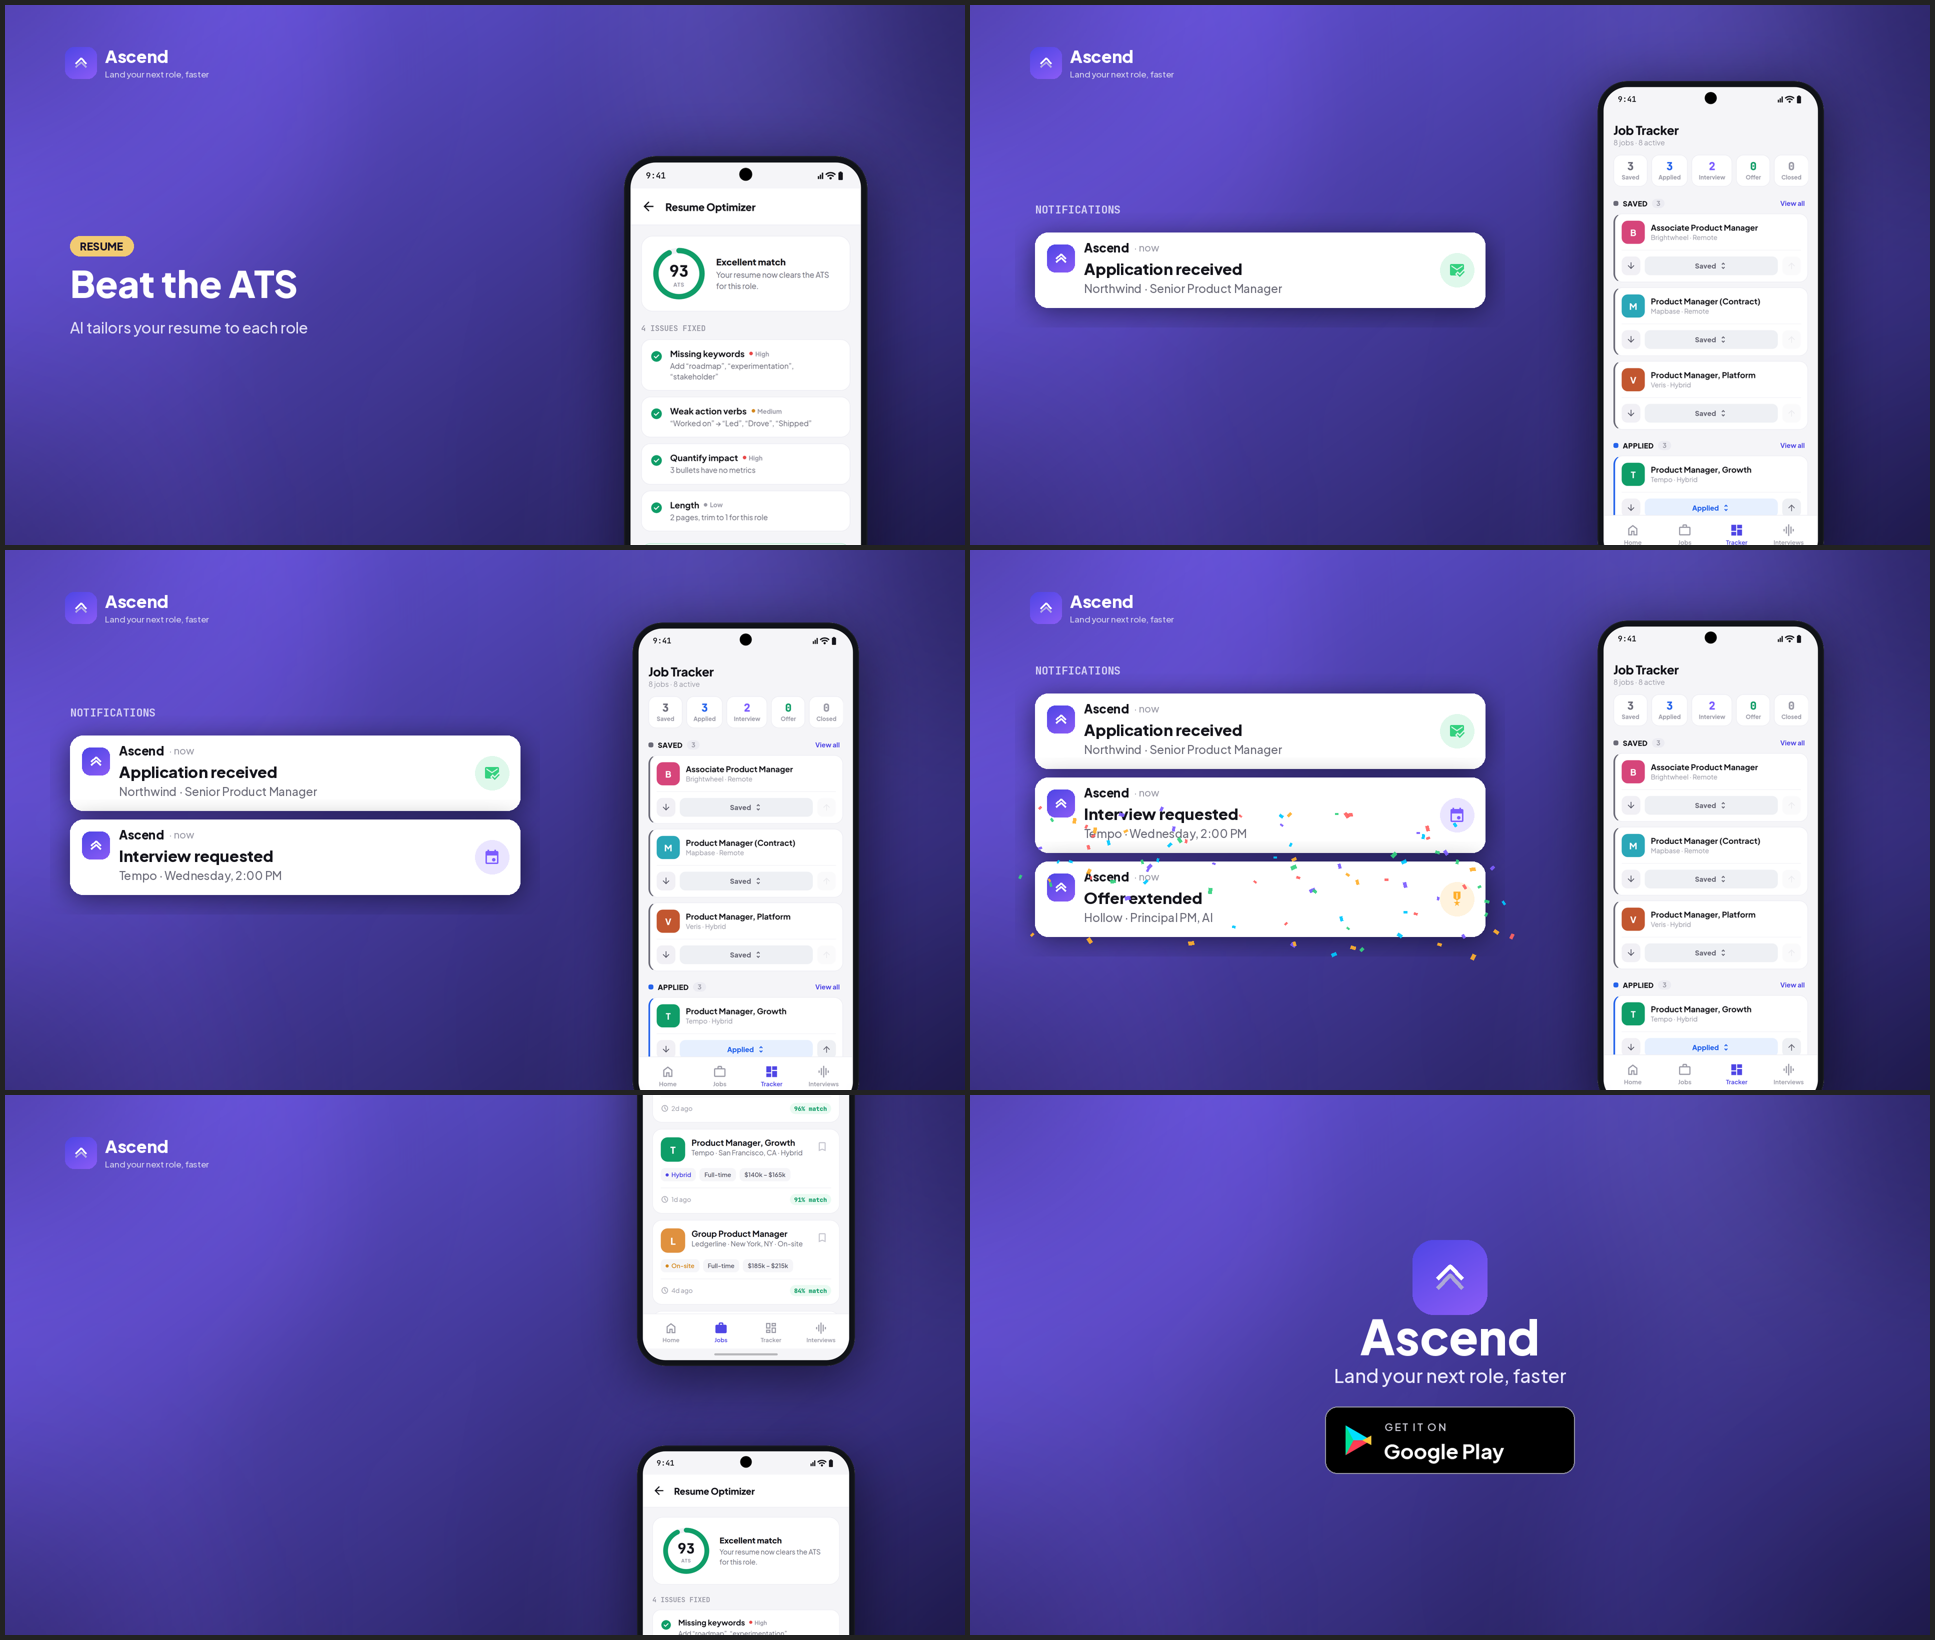
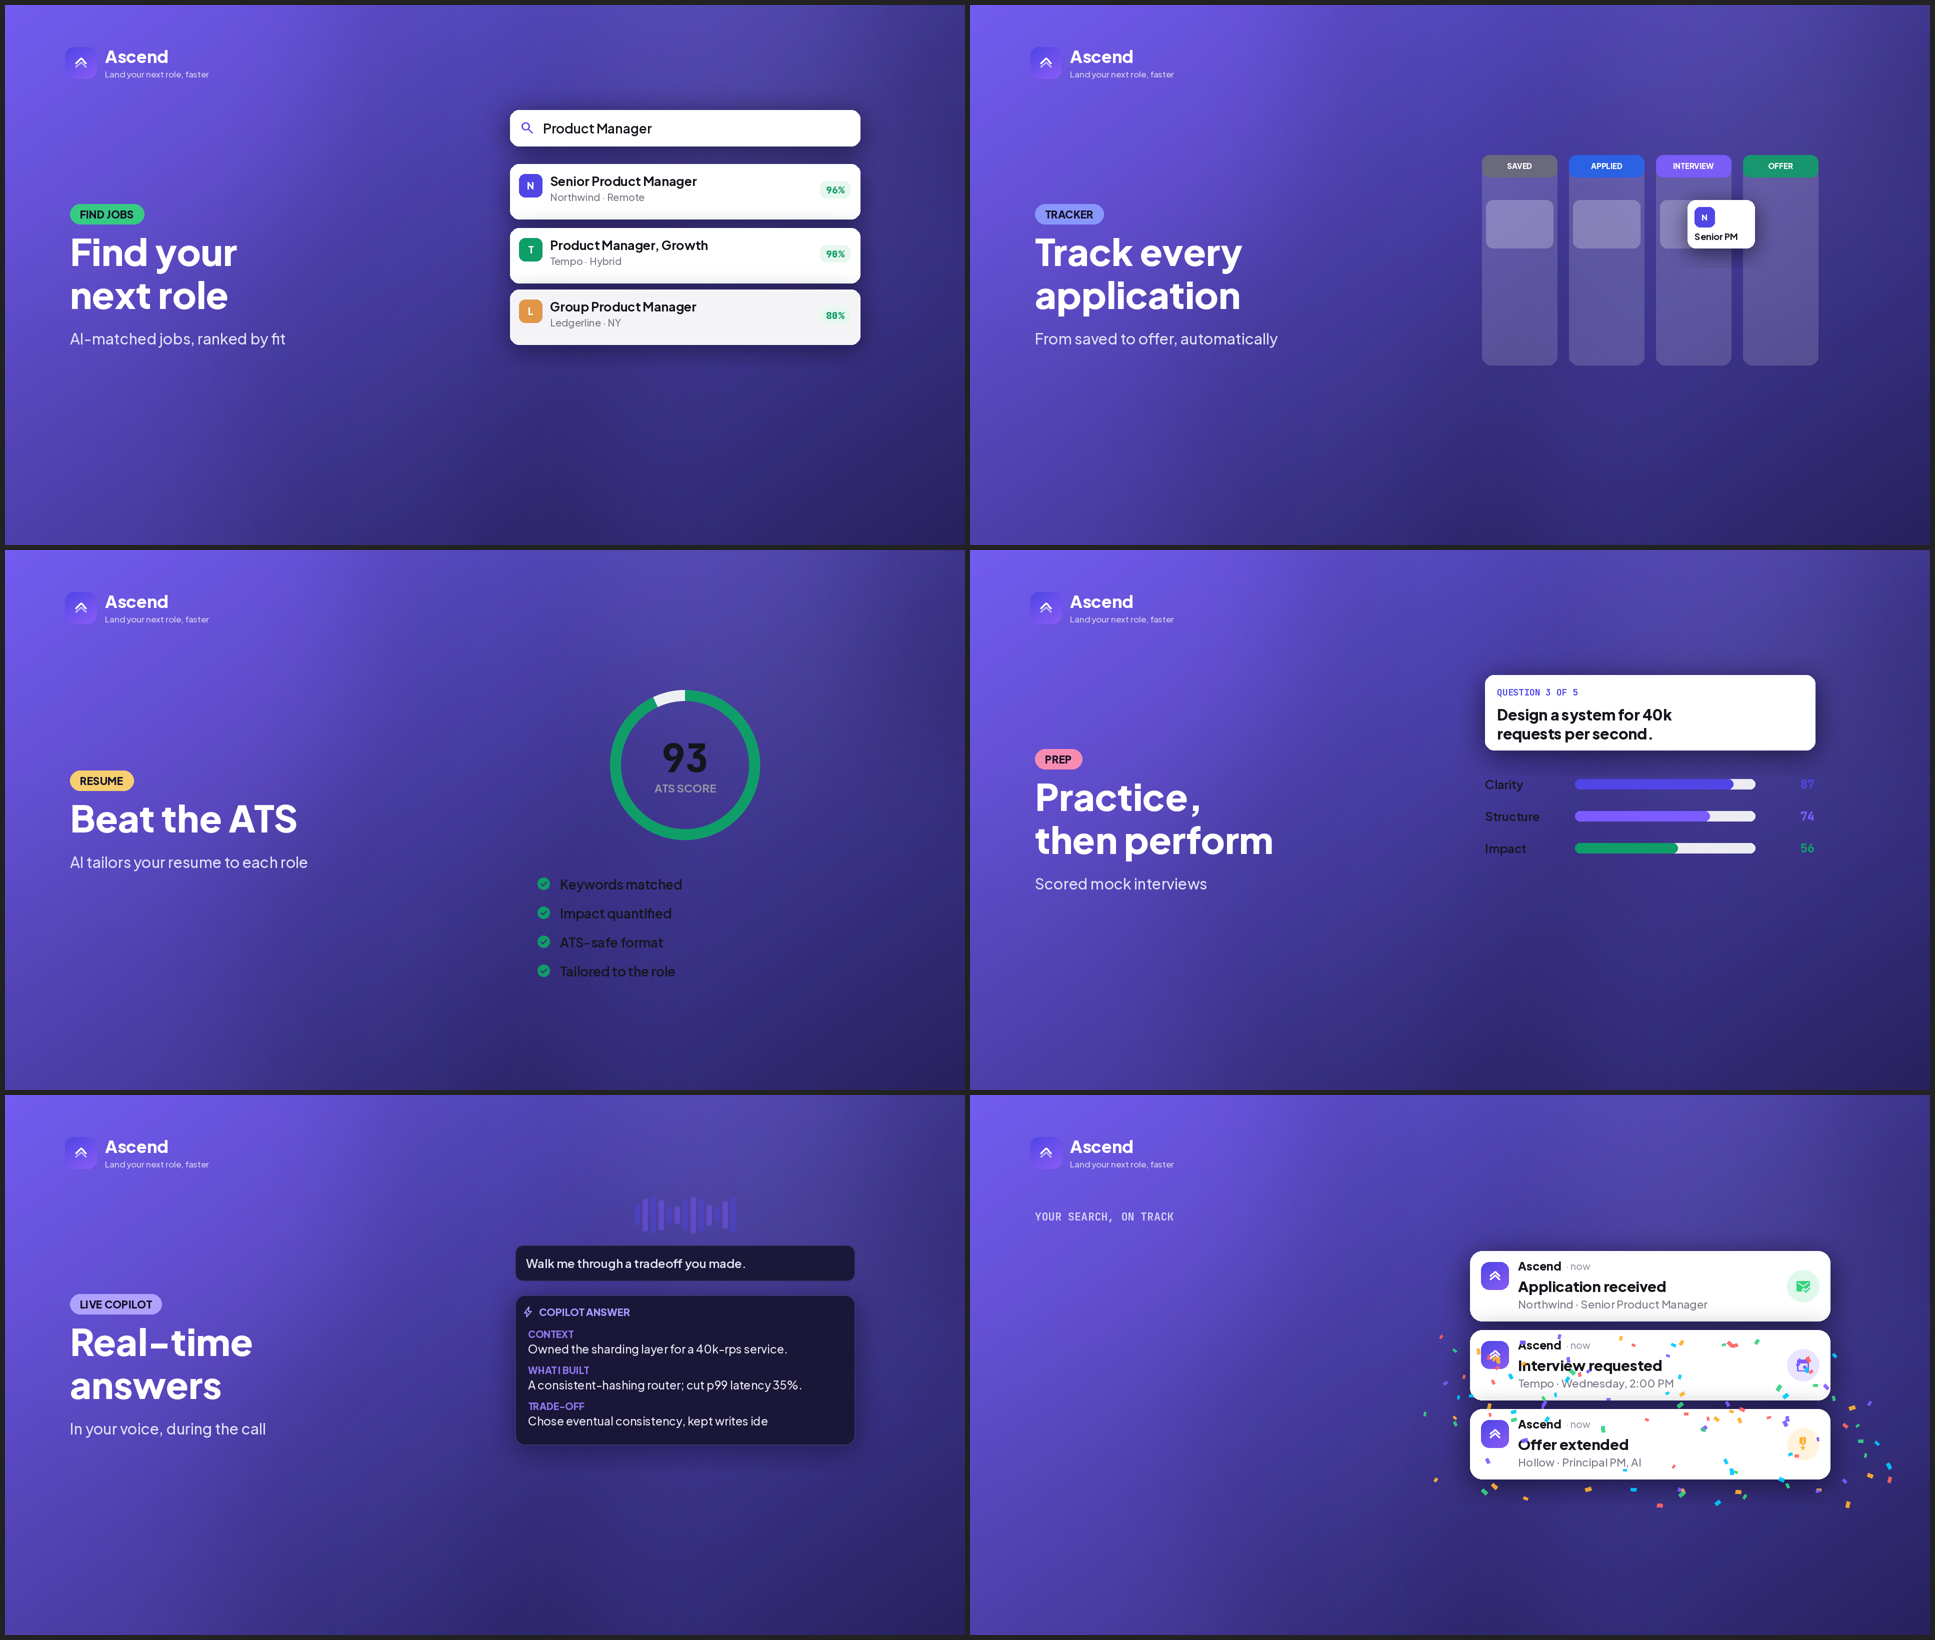
Rebuild promo as fully animated motion graphics (no screenshots)
Replace the screenshot-based video with custom per-frame motion graphics:
- typing search + job cards flying in with match counters
- kanban card traveling Saved->Applied->Interview->Offer
- ATS gauge filling to 93 with checklist pop-ins
- mock score bars growing; live copilot waveform + answer typing in
- notification arc + confetti; animated brand background
anim.py is the generator; build.py kept for the screenshot variant.

Claude-Session: https://claude.ai/code/session_016iTa5Z3smo53P389BkYmrZ

diff --git a/feature-video/anim.py b/feature-video/anim.py
@@ -1,0 +1,354 @@
+"""Ascend Google Play promo — fully animated motion graphics (no screenshots).
+Every element is drawn and animated per-frame with Pillow.
+"""
+import math, os, random, numpy as np
+from PIL import Image, ImageDraw, ImageFilter
+import imageio_ffmpeg
+from ascend import font, icon, tw, logo_mark, _rgb, INDIGO, INDIGO2, VIOLET, VIOLET2
+import screens
+
+W,H,FPS = 1920,1080,30
+HERE=os.path.dirname(os.path.abspath(__file__))
+
+def clamp(x,a=0.0,b=1.0): return max(a,min(b,x))
+def smooth(x): x=clamp(x); return x*x*(3-2*x)
+def lerp(a,b,t): return a+(b-a)*t
+def out_cubic(x): x=clamp(x); return 1-(1-x)**3
+def out_back(x):
+    x=clamp(x); c=1.70158; return 1+(c+1)*(x-1)**3+c*(x-1)**2
+def stagger(p, i, n, overlap=0.55):
+    """eased reveal for item i of n within progress p."""
+    span=1.0/(n*(1-overlap)+overlap); start=i*span*(1-overlap)
+    return out_cubic((p-start)/span)
+
+INK=(21,21,28); MUTE=(122,122,135); MUT2=(150,150,166); LINE=(236,236,242)
+GREEN=(15,157,104); GREENBG=(231,247,239)
+
+# ---------- animated background ----------
+_BG=screens.vgrad((0,0,W,H),"#6d5cf0","#191641",145).convert("RGB")
+def make_bg(t):
+    img=_BG.copy(); ov=Image.new("RGBA",(W,H),(0,0,0,0)); d=ImageDraw.Draw(ov)
+    blobs=[(250,170,540,46,VIOLET,0.6),(1720,930,640,42,INDIGO2,0.4),
+           (1500,120,360,28,"#a89bff",0.8),(120,1010,440,24,"#8b5cf6",0.5)]
+    for cx,cy,r,a,col,sp in blobs:
+        dx=math.sin(t*sp)*40; dy=math.cos(t*sp*0.8)*30
+        d.ellipse([cx+dx-r,cy+dy-r,cx+dx+r,cy+dy+r],fill=_rgb(col)+(a,))
+    img=Image.alpha_composite(img.convert("RGBA"),ov.filter(ImageFilter.GaussianBlur(130)))
+    return img.convert("RGB")
+# precompute a few bg frames and reuse (cheap, subtle drift)
+_BGCACHE={}
+def bg(t):
+    k=round(t*4)
+    if k not in _BGCACHE:
+        if len(_BGCACHE)>40: _BGCACHE.clear()
+        _BGCACHE[k]=make_bg(k/4)
+    return _BGCACHE[k].copy()
+
+# ---------- logo ----------
+def logo_tile(size,r):
+    t=Image.new("RGBA",(size,size),(0,0,0,0))
+    g=screens.vgrad((0,0,size,size),INDIGO,VIOLET,150).convert("RGBA")
+    m=Image.new("L",(size,size),0); ImageDraw.Draw(m).rounded_rectangle([0,0,size-1,size-1],radius=r,fill=255)
+    t.paste(g,(0,0),m); logo_mark(ImageDraw.Draw(t),size/2,size/2,size*0.56,"#ffffff")
+    return t
+LOGO_BIG=logo_tile(150,42); LOGO_SM=logo_tile(64,18); LOGO_NOTIF=logo_tile(56,16)
+
+def google_play_badge():
+    bw,bh=486,132; b=Image.new("RGBA",(bw,bh),(0,0,0,0)); d=ImageDraw.Draw(b)
+    d.rounded_rectangle([0,0,bw-1,bh-1],radius=24,fill=(0,0,0,255),outline=(150,150,165,255),width=2)
+    s=4; th=58; tw_=50; tx,ty=40,(bh-th)//2
+    tri=Image.new("RGBA",(tw_*s,th*s),(0,0,0,0)); td=ImageDraw.Draw(tri)
+    Wt,Ht=tw_*s,th*s; A=(0,0); Bp=(0,Ht); P=(Wt,Ht//2); C=(int(Wt*0.30),Ht//2)
+    td.polygon([A,P,C],fill=(0,224,255,255)); td.polygon([Bp,P,C],fill=(255,61,84,255))
+    td.polygon([A,Bp,C],fill=(0,224,150,255)); mid=((C[0]+P[0])//2,Ht//2)
+    td.polygon([mid,(P[0],Ht//2-int(Ht*0.16)),(P[0],Ht//2+int(Ht*0.16))],fill=(255,200,60,255))
+    b.alpha_composite(tri.resize((tw_,th),Image.LANCZOS),(tx,ty))
+    txx=tx+tw_+26; ef=font(20,600); ex=txx
+    for ch in "GET IT ON":
+        d.text((ex,40),ch,font=ef,fill=(196,196,206),anchor="lm"); ex+=tw(d,ch,ef)+3
+    d.text((txx-2,86),"Google Play",font=font(40,700),fill=(255,255,255),anchor="lm")
+    return b
+BADGE=google_play_badge()
+
+# ---------- small draw helpers (alpha-aware) ----------
+def A(c,a):
+    c=c if isinstance(c,tuple) else _rgb(c); return (c[0],c[1],c[2],int(255*clamp(a)))
+def card(d,x,y,w,h,a=1.0,r=22,fill=(255,255,255),outline=None,shadow=None):
+    d.rounded_rectangle([x,y,x+w,y+h],radius=r,fill=A(fill,a),
+                        outline=A(outline,a) if outline else None,width=2 if outline else 1)
+def txt(d,x,y,s,f,col,a=1.0,anchor="lm"):
+    if a<=0.01:return
+    d.text((x,y),s,font=f,fill=A(col,a),anchor=anchor)
+def avatar(d,x,y,s,col,ini,a=1.0):
+    d.rounded_rectangle([x,y,x+s,y+s],radius=int(s*0.28),fill=A(col,a))
+    txt(d,x+s/2,y+s/2,ini,font(int(s*0.42),800),(255,255,255),a,"mm")
+
+def soft_shadow(img,x,y,w,h,r,blur=26,col=(6,5,22,150)):
+    sh=Image.new("RGBA",(int(w+blur*4),int(h+blur*4)),(0,0,0,0))
+    ImageDraw.Draw(sh).rounded_rectangle([blur*2,blur*2+10,blur*2+w,blur*2+h+10],radius=r,fill=col)
+    sh=sh.filter(ImageFilter.GaussianBlur(blur)); img.paste(sh,(int(x-blur*2),int(y-blur*2)),sh)
+
+# ---------- caption ----------
+CX=130
+def caption(img,d,eyebrow,lines,sub,accent,ca,dx=0.0):
+    if ca<=0.02:return
+    block=40+24+len(lines)*86+14+34; top=int(H*0.5-block/2)
+    f=font(21,800); pad=20; w=tw(d,eyebrow,f)+pad*2
+    dark=accent in ("#ffd66b","#34d17f","#ff8fb1","#b3a6ff","#8b9bff","#ffb02e")
+    d.rounded_rectangle([CX-dx,top,CX-dx+w,top+40],radius=20,fill=A(accent,0.95*ca))
+    txt(d,CX-dx+pad,top+20,eyebrow,f,(22,18,42) if dark else (255,255,255),ca)
+    yy=top+40+24+30
+    for ln in lines: txt(d,CX-dx,yy,ln,font(74,800),(255,255,255),ca); yy+=86
+    txt(d,CX-dx,yy+2,sub,font(30,500),(224,222,246),ca)
+
+# ============ animated visuals ============
+VX=1360   # visual centre x (right half)
+
+def vis_search(img,d,p,t):
+    # search bar typing, then job cards fly in with counting match%
+    bx,bw=1010,700; by=210
+    soft_shadow(img,bx,by,bw,72,18); card(d,bx,by,bw,72,r=18)
+    icon(d,(bx+34,by+36),"search",30,INDIGO,anchor="mm")
+    q="Product Manager"; tp=clamp(p/0.28); n=int(len(q)*tp)
+    txt(d,bx+66,by+36,q[:n],font(26,600),INK)
+    if tp<1 and int(t*2)%2==0:
+        cw=bx+66+tw(d,q[:n],font(26,600)); d.rectangle([cw+2,by+22,cw+5,by+50],fill=A(INK,1))
+    jobs=[("Senior Product Manager","Northwind · Remote","N",INDIGO,96),
+          ("Product Manager, Growth","Tempo · Hybrid","T",GREEN,91),
+          ("Group Product Manager","Ledgerline · NY","L",(224,145,63),84)]
+    cy=by+108
+    for i,(title,co,ini,col,m) in enumerate(jobs):
+        rp=stagger(clamp((p-0.30)/0.7),i,len(jobs))
+        if rp<=0.01: continue
+        off=(1-out_back(rp))*70; a=clamp(rp*1.3)
+        x=bx; y=cy+i*128+off; w=bw; h=110
+        soft_shadow(img,x,y,w,h,18,blur=22,col=(6,5,22,int(120*a)))
+        card(d,x,y,w,h,a,18)
+        avatar(d,x+18,y+20,46,col,ini,a)
+        txt(d,x+80,y+34,title,font(25,700),INK,a)
+        txt(d,x+80,y+66,co,font(20,500),MUTE,a)
+        mv=int(m*out_cubic(clamp((rp-0.2)/0.8)))
+        bw2=tw(d,f"{mv}%",font(20,800,mono=True))+24
+        d.rounded_rectangle([x+w-bw2-20,y+34,x+w-20,y+34+34],radius=12,fill=A(GREENBG,a))
+        txt(d,x+w-bw2-20+bw2/2,y+34+17,f"{mv}%",font(20,800,mono=True),GREEN,a,"mm")
+
+def vis_tracker(img,d,p,t):
+    cols=[("SAVED",(107,107,120)),("APPLIED",(37,99,235)),("INTERVIEW",(124,92,255)),("OFFER",(15,157,104))]
+    n=len(cols); gap=24; cw=150; total=n*cw+(n-1)*gap; x0=VX-total/2; y0=300; colh=420
+    for i,(lab,col) in enumerate(cols):
+        x=x0+i*(cw+gap)
+        card(d,x,y0,cw,colh,0.16,18,fill=(255,255,255))
+        d.rounded_rectangle([x,y0,x+cw,y0+44],radius=14,fill=A(col,0.9))
+        txt(d,x+cw/2,y0+22,lab,font(15,800),(255,255,255),1,"mm")
+    # a card travels Saved->Applied->Interview->Offer
+    seg=clamp(p/0.92)*3       # 0..3 across columns
+    ci=min(3,int(seg)); fr=out_cubic(seg-ci)
+    def colx(i): return x0+i*(cw+gap)+cw/2
+    cardx=lerp(colx(ci),colx(min(3,ci+1)),fr)
+    cy=y0+90; ch=96; cwd=cw-16
+    # ghost trail in passed columns
+    for i in range(ci+1):
+        gx=colx(i)
+        if i<ci or fr>0.1:
+            a=0.25 if i<ci else 0.25
+            d.rounded_rectangle([gx-cwd/2,cy,gx+cwd/2,cy+ch],radius=14,fill=A((255,255,255),a))
+    # moving card
+    x=cardx-cwd/2
+    soft_shadow(img,x,cy,cwd,ch,16,blur=20)
+    card(d,x,cy,cwd,ch,1,16)
+    avatar(d,x+14,cy+14,40,INDIGO,"N",1)
+    txt(d,x+14,cy+72,"Senior PM",font(18,700),INK,1)
+    # checkmark blips when landing on offer
+    if ci>=3 and fr>0.6:
+        a=clamp((fr-0.6)/0.4)
+        icon(d,(colx(3),y0+colh-40),"verified",46,GREEN,fill=1,anchor="mm")
+
+def vis_ats(img,d,p,t):
+    cx,cy,r=VX,430,150
+    sc=4; big=Image.new("RGBA",((r+22)*2*sc,)*2,(0,0,0,0)); bd=ImageDraw.Draw(big)
+    o=(r+22)*sc; bb=[o-r*sc,o-r*sc,o+r*sc,o+r*sc]
+    bd.arc(bb,0,360,fill=(238,240,244,255),width=22*sc)
+    val=int(93*out_cubic(clamp(p/0.7)))
+    if val>0: bd.arc(bb,-90,-90+360*val/100,fill=_rgb("#0f9d68")+(255,),width=22*sc)
+    big=big.resize(((r+22)*2,)*2,Image.LANCZOS); img.paste(big,(int(cx-(r+22)),int(cy-(r+22))),big)
+    d2=ImageDraw.Draw(img,"RGBA")
+    txt(d2,cx,cy-14,str(val),font(78,800,mono=True),INK,1,"mm")
+    txt(d2,cx,cy+46,"ATS SCORE",font(22,700),MUT2,1,"mm")
+    checks=["Keywords matched","Impact quantified","ATS-safe format","Tailored to the role"]
+    yy=cy+r+70
+    for i,c in enumerate(checks):
+        rp=stagger(clamp((p-0.4)/0.6),i,len(checks));
+        if rp<=0.02: continue
+        a=clamp(rp*1.4); x=VX-300
+        icon(d2,(x+18,yy+18),"check_circle",30,GREEN,fill=1,anchor="mm")
+        txt(d2,x+50,yy+18,c,font(26,600),INK,a)
+        yy+=58
+
+def vis_mock(img,d,p,t):
+    x=VX-330; w=660
+    # question card types in
+    qy=250; qh=150
+    soft_shadow(img,x,qy,w,qh,18); card(d,x,qy,w,qh,1,18)
+    txt(d,x+24,qy+34,"QUESTION 3 OF 5",font(18,700,mono=True),INDIGO,1)
+    q="Design a system for 40k requests per second."
+    tp=clamp(p/0.4); n=int(len(q)*tp)
+    # wrap
+    words=q[:n].split(" "); line1=" ".join(words[:5]); line2=" ".join(words[5:])
+    txt(d,x+24,qy+78,line1,font(30,800),INK,1)
+    txt(d,x+24,qy+116,line2,font(30,800),INK,1)
+    # score bars fill
+    areas=[("Clarity",88,INDIGO),("Structure",81,VIOLET2),("Impact",92,GREEN)]
+    by=qy+qh+50
+    for i,(lab,sc,col) in enumerate(areas):
+        rp=clamp((p-0.45-i*0.12)/0.4)
+        txt(d,x,by+i*64+18,lab,font(24,600),INK,1)
+        bx=x+180; bw=w-300
+        d.rounded_rectangle([bx,by+i*64+8,bx+bw,by+i*64+28],radius=10,fill=A(LINE,1))
+        fw=bw*(sc/100)*out_cubic(rp)
+        if fw>2: d.rounded_rectangle([bx,by+i*64+8,bx+fw,by+i*64+28],radius=10,fill=A(col,1))
+        val=int(sc*out_cubic(rp))
+        txt(d,x+w,by+i*64+18,f"{val}",font(24,800,mono=True),col,1,"rm")
+
+def waveform(d,cx,cy,t,a=1.0,scale=1.0,col=INDIGO):
+    for i in range(-6,7):
+        h=(18+abs(math.sin(t*4+i*0.6))*54)*scale
+        x=cx+i*16; d.rounded_rectangle([x-5,cy-h/2,x+5,cy+h/2],radius=4,
+            fill=A(col if i%2==0 else VIOLET2,a))
+
+def vis_copilot(img,d,p,t):
+    x=VX-340; w=680
+    # listening waveform
+    if p<0.9: waveform(d,VX,240,t,clamp(1-(p-0.7)/0.2),1.0)
+    # detected question bubble slides in
+    qp=out_back(clamp((p-0.12)/0.25));
+    if qp>0.02:
+        qy=300+(1-qp)*30;
+        card(d,x,qy,w,72,clamp(qp),16,fill=(26,24,56),outline=(58,52,112))
+        txt(d,x+22,qy+36,"Walk me through a tradeoff you made.",font(24,600),(230,230,245),clamp(qp))
+    # answer card with STAR sections typing/revealing
+    ap=clamp((p-0.34)/0.62)
+    if ap>0.02:
+        ay=400; ah=300
+        soft_shadow(img,x,ay,w,ah,20,col=(20,10,60,120))
+        card(d,x,ay,w,ah,clamp(ap*1.3),20,fill=(26,22,56),outline=(58,52,112))
+        icon(d,(x+26,ay+34),"bolt",26,(168,155,255),anchor="mm")
+        txt(d,x+48,ay+34,"COPILOT ANSWER",font(20,800),(168,155,255),clamp(ap*1.3))
+        secs=[("CONTEXT","Owned the sharding layer for a 40k-rps service."),
+              ("WHAT I BUILT","A consistent-hashing router; cut p99 latency 35%."),
+              ("TRADE-OFF","Chose eventual consistency, kept writes idempotent.")]
+        yy=ay+78
+        for i,(lab,body) in enumerate(secs):
+            rp=clamp((ap-0.15-i*0.22)/0.3)
+            if rp<=0.02: continue
+            txt(d,x+26,yy,lab,font(19,800),(139,120,236),clamp(rp*1.5))
+            nn=int(len(body)*clamp(rp*1.4));
+            txt(d,x+26,yy+30,body[:nn],font(23,500),(230,230,240),1)
+            yy+=72
+
+NOTIFS=[("mark_email_read","Application received","Northwind · Senior Product Manager","#34d17f"),
+        ("event","Interview requested","Tempo · Wednesday, 2:00 PM","#7c5cff"),
+        ("military_tech","Offer extended","Hollow · Principal PM, AI","#ffb02e")]
+def vis_notifs(img,d,p,t,count,confetti):
+    cw=720; ch=140; gap=18; x=VX-cw/2
+    items=NOTIFS[:count]; total=len(items)*ch+(len(items)-1)*gap; y0=int(H*0.5-total/2)
+    for idx,(ic,title,body,acc) in enumerate(items):
+        last=idx==len(items)-1; rise=(1-out_back(clamp(p/0.6)))*80 if last else 0
+        y=y0+idx*(ch+gap)+rise
+        soft_shadow(img,x,y,cw,ch,24)
+        card(d,x,int(y),cw,ch,1,24)
+        img.paste(LOGO_NOTIF,(int(x+22),int(y)+22),LOGO_NOTIF)
+        tx=x+22+56+18
+        txt(d,tx,int(y)+30,"Ascend",font(23,800),INK,1)
+        txt(d,tx+tw(d,"Ascend",font(23,800))+10,int(y)+30,"· now",font(19,500),MUT2,1)
+        txt(d,tx,int(y)+70,title,font(29,800),INK,1)
+        txt(d,tx,int(y)+106,body,font(22,500),MUTE,1)
+        cxr=x+cw-54; cyr=int(y)+ch//2
+        d.ellipse([cxr-32,cyr-32,cxr+32,cyr+32],fill=A(acc,0.16))
+        icon(d,(cxr,cyr),ic,32,_rgb(acc),fill=1,anchor="mm")
+    if confetti>0: draw_confetti(img,confetti)
+
+def draw_confetti(img,p):
+    d=ImageDraw.Draw(img,"RGBA"); rng=random.Random(7)
+    cols=[(124,92,255),(52,209,127),(255,176,46),(255,99,99),(0,200,255)]
+    for i in range(110):
+        x0=rng.uniform(VX-460,VX+460); col=cols[i%len(cols)]
+        fall=p*rng.uniform(720,1150); x=x0+math.sin(p*6+i)*20; y=120+fall-200
+        if -20<y<H+20:
+            s=rng.uniform(7,13); box=Image.new("RGBA",(int(s*2),int(s*2)),(0,0,0,0))
+            ImageDraw.Draw(box).rectangle([0,0,s,s*0.6],fill=col+(235,))
+            box=box.rotate(p*360+i*20,expand=True); img.paste(box,(int(x),int(y)),box)
+
+# ============ timeline ============
+SCENES=[
+ ("intro",3.2,None),
+ ("findjobs",4.2,("FIND JOBS",["Find your","next role"],"AI-matched jobs, ranked by fit","#34d17f")),
+ ("tracker",4.0,("TRACKER",["Track every","application"],"From saved to offer, automatically","#8b9bff")),
+ ("ats",4.0,("RESUME",["Beat the ATS"],"AI tailors your resume to each role","#ffd66b")),
+ ("mock",4.0,("PREP",["Practice,","then perform"],"Scored mock interviews","#ff8fb1")),
+ ("copilot",4.4,("LIVE COPILOT",["Real-time","answers"],"In your voice, during the call","#b3a6ff")),
+ ("notif1",1.7,None),("notif2",1.7,None),("notif3",2.8,None),
+ ("outro",3.6,None),
+]
+STARTS=[]; _t=0.0
+for _,d,_ in SCENES: STARTS.append(_t); _t+=d
+TOTAL=_t
+
+def brand_corner(img,d):
+    img.paste(LOGO_SM,(120,84),LOGO_SM)
+    txt(d,200,102,"Ascend",font(34,800),(255,255,255),1)
+    txt(d,200,138,"Land your next role, faster",font(17,500),(212,210,236),1)
+
+def frame(t):
+    i=0
+    while i+1<len(SCENES) and t>=STARTS[i+1]: i+=1
+    name,dur,cap=SCENES[i]; local=t-STARTS[i]; p=clamp(local/dur)
+    img=bg(t); d=ImageDraw.Draw(img,"RGBA")
+
+    if name=="intro":
+        sc=out_back(clamp(p/0.5)); ls=int(150*sc)
+        if ls>4:
+            lg=LOGO_BIG.resize((ls,ls),Image.LANCZOS); img.paste(lg,(W//2-ls//2,H//2-230-ls//2),lg)
+        fade=1-smooth((p-0.82)/0.18)
+        txt(d,W//2,H//2-70,"Ascend",font(96,800),(255,255,255),smooth((p-0.18)/0.25)*fade,"mm")
+        txt(d,W//2,H//2+12,"Land your next role, faster",font(38,500),(236,234,255),smooth((p-0.34)/0.25)*fade,"mm")
+        txt(d,W//2,H//2+122,"YOUR AI JOB-SEARCH COPILOT",font(25,700,mono=True),(176,164,255),smooth((p-0.55)/0.3)*fade,"mm")
+        return np.asarray(img)
+
+    if name=="outro":
+        ap=out_cubic(clamp(p/0.4))
+        img.paste(LOGO_BIG,(W//2-75,int(H//2-250-(1-ap)*40)),LOGO_BIG)
+        txt(d,W//2,H//2-58,"Ascend",font(96,800),(255,255,255),ap,"mm")
+        txt(d,W//2,H//2+20,"Land your next role, faster",font(38,500),(236,234,255),ap,"mm")
+        b=out_back(clamp((p-0.4)/0.5))
+        if b>0.02:
+            bw=int(BADGE.size[0]*b); bh=int(BADGE.size[1]*b)
+            bb=BADGE.resize((max(1,bw),max(1,bh)),Image.LANCZOS); img.paste(bb,(W//2-bw//2,int(H//2+150-bh//2)),bb)
+        return np.asarray(img)
+
+    brand_corner(img,d)
+    ca=smooth(clamp(local/0.4))*(1-smooth(clamp((local-(dur-0.3))/0.3)))
+    if name=="findjobs": vis_search(img,d,p,t)
+    elif name=="tracker": vis_tracker(img,d,p,t)
+    elif name=="ats": vis_ats(img,d,p,t)
+    elif name=="mock": vis_mock(img,d,p,t)
+    elif name=="copilot": vis_copilot(img,d,p,t)
+    elif name.startswith("notif"):
+        cnt={"notif1":1,"notif2":2,"notif3":3}[name]
+        conf=clamp((local-0.2)/(dur-0.2)) if name=="notif3" else 0.0
+        vis_notifs(img,d,p,t,cnt,conf)
+        txt(d,CX,H*0.5- ( {1:1,2:2,3:3}[cnt]*79)-60,"YOUR SEARCH, ON TRACK",font(22,700,mono=True),(214,210,245),smooth(clamp(local/0.4)))
+    if cap is not None:
+        eb,lines,sub,acc=cap; caption(img,d,eb,lines,sub,acc,ca,(1-smooth(clamp(local/0.4)))*55)
+    return np.asarray(img)
+
+def main():
+    out="out/ascend_silent.mp4"; n=int(TOTAL*FPS)
+    wr=imageio_ffmpeg.write_frames(out,(W,H),fps=FPS,codec="libx264",quality=7,macro_block_size=8,
+        output_params=["-pix_fmt","yuv420p","-movflags","+faststart","-profile:v","high"])
+    wr.send(None)
+    for k in range(n):
+        wr.send(np.ascontiguousarray(frame(k/FPS)))
+        if k%90==0:print(f"{k}/{n}",flush=True)
+    wr.close(); print("DONE",out,f"{TOTAL:.1f}s {n}f")
+
+if __name__=="__main__": main()